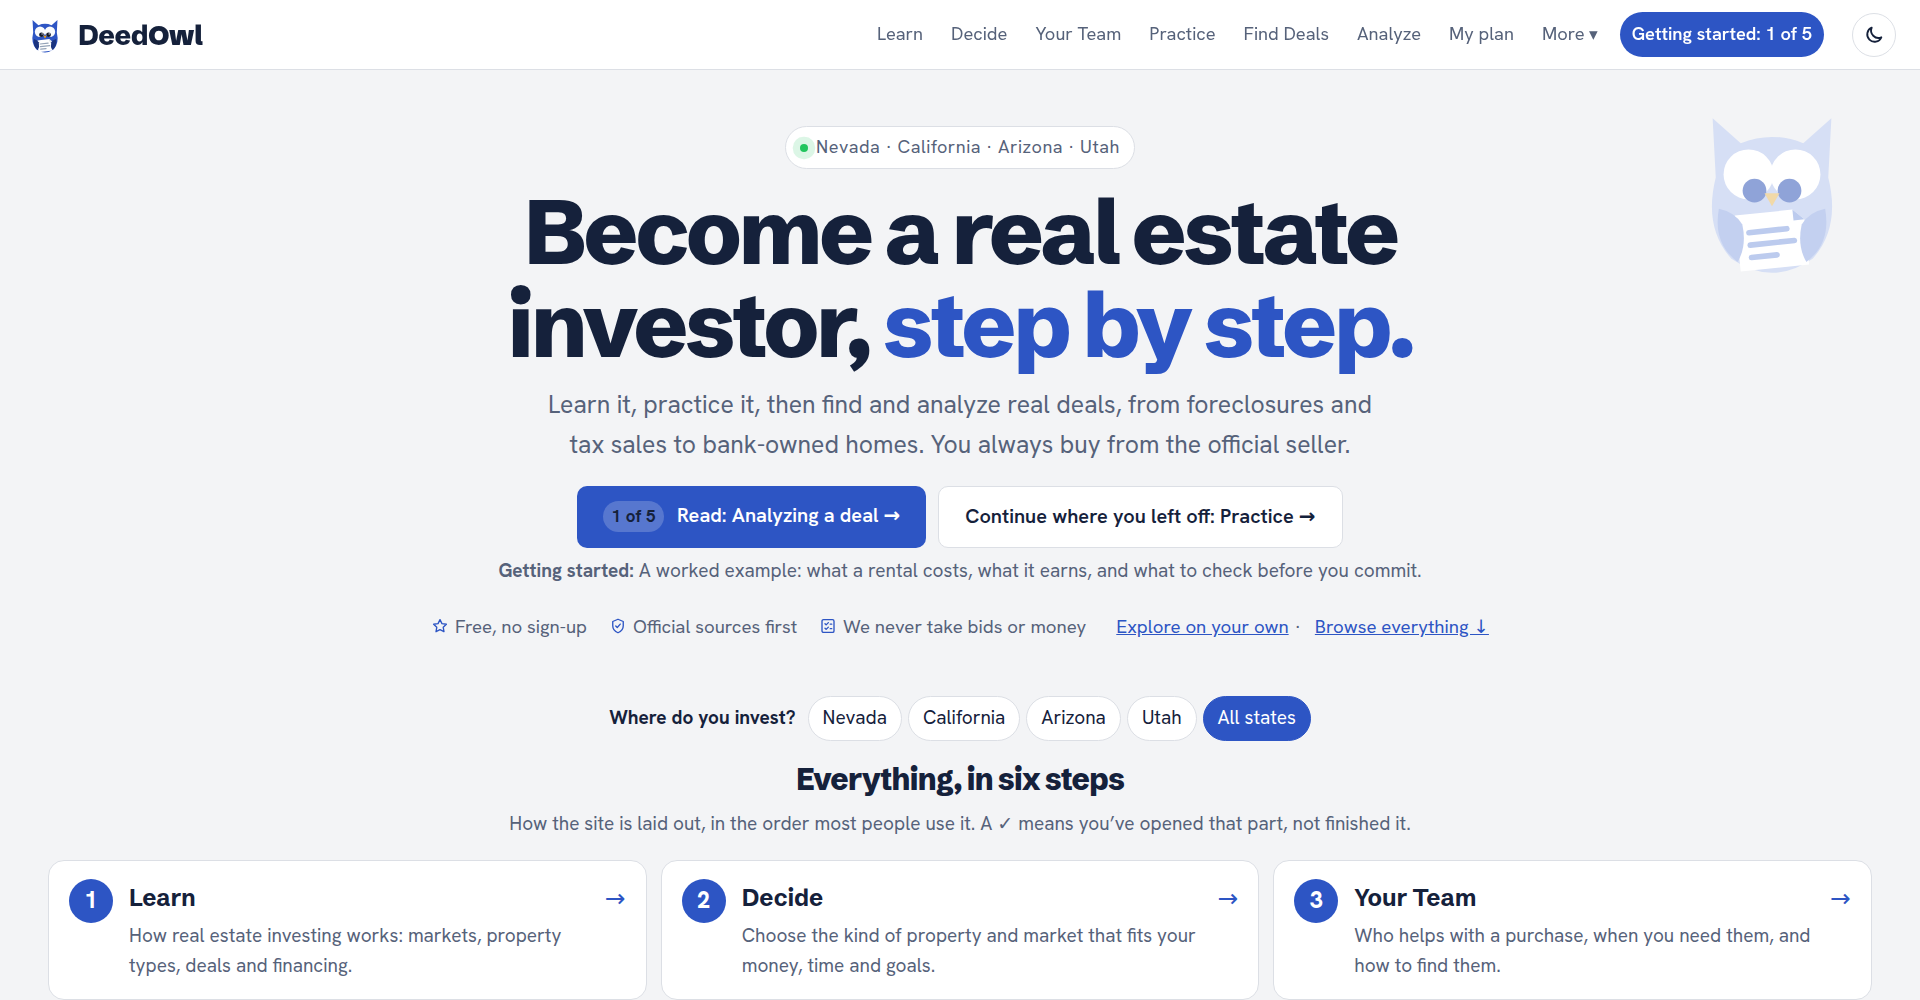
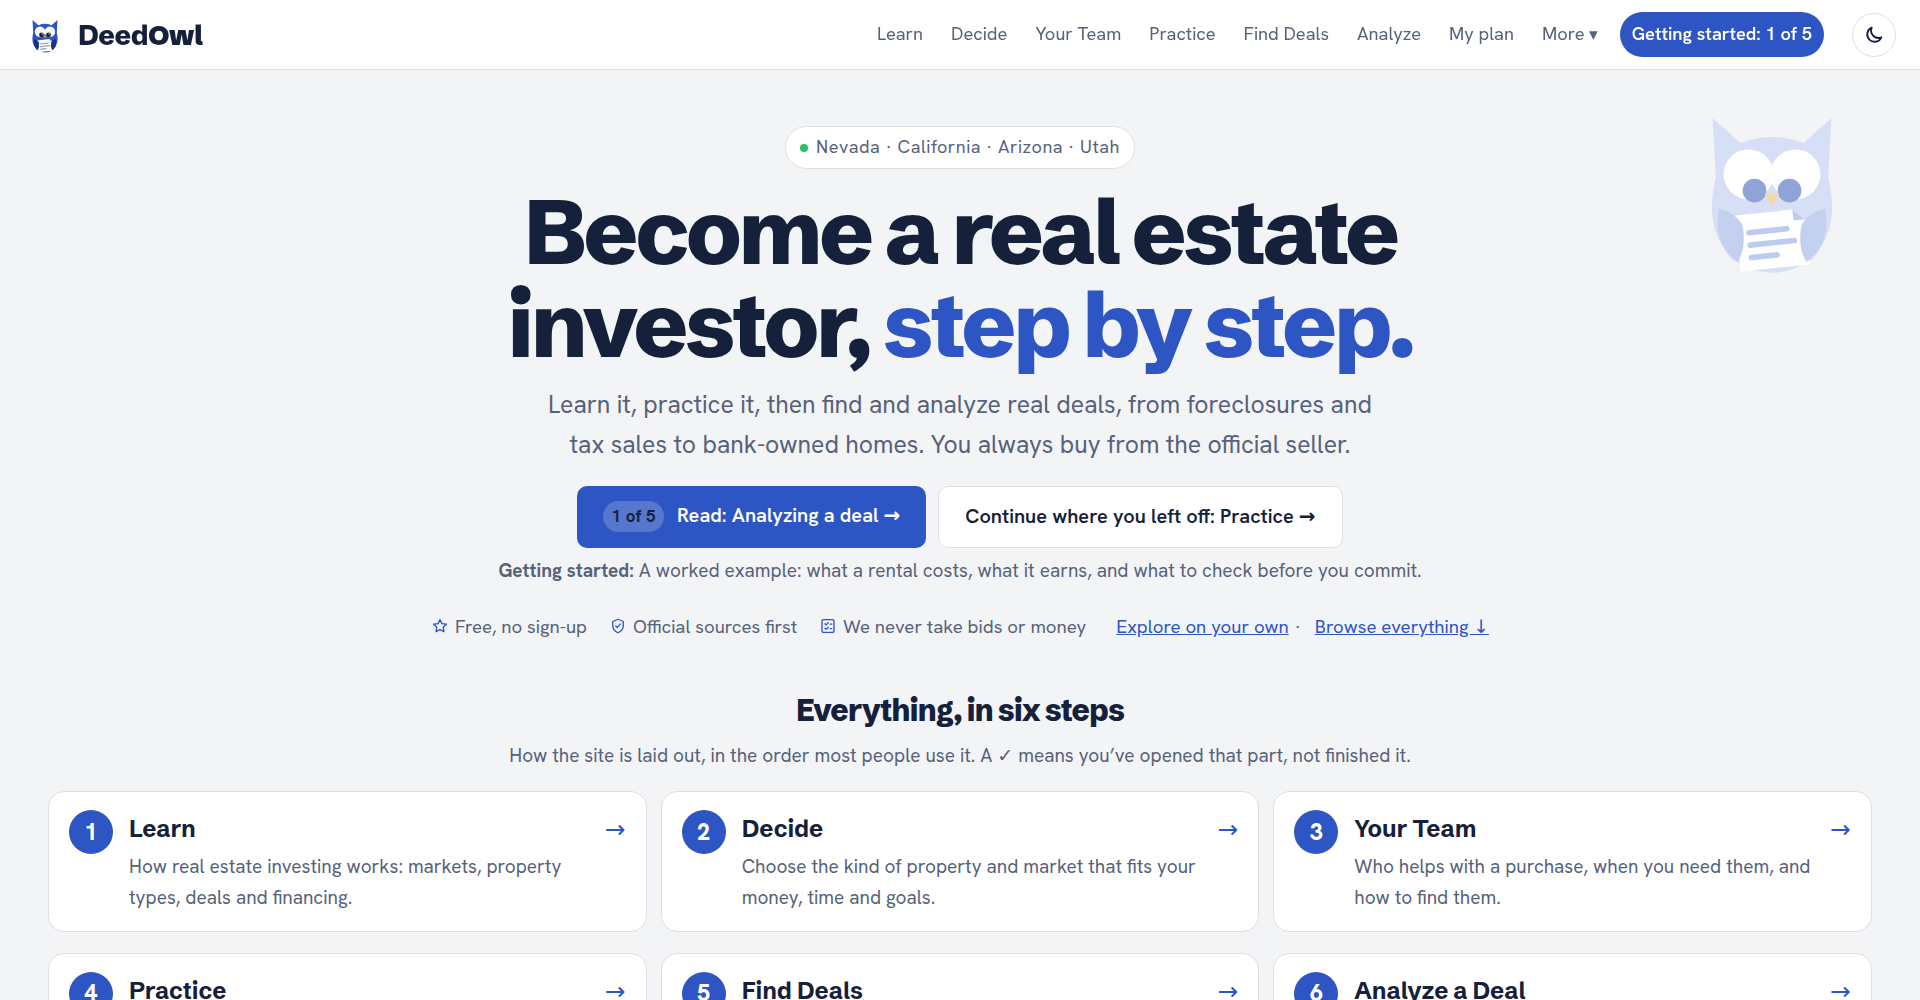
Home: drop the state picker; the hero already names the four states, and later pages ask
Claude-Session: https://claude.ai/code/session_019dGDYcan57bz6rc52xsq5c

Changed region(s): [[0.0312, 0.682, 0.9688, 1.0], [0.4062, 0.124, 0.4375, 0.155]]

diff --git a/src/components/HomePage.tsx b/src/components/HomePage.tsx
@@ -1,4 +1,3 @@
-import StatePicker from './StatePicker';
 import { IconBank, IconBadge, IconCalc, IconCheckList, IconFile, IconLayers, IconShield, IconStar } from './Icons';
 import { PATH, useStepsSeen } from '../lib/path';
 import { currentProgress, GUIDED, guidedNext, setMode, unfinished, useJourney } from '../lib/journey';
@@ -106,7 +105,6 @@ export default function HomePage() {
       </section>
 
       <section className="path" id="everything" aria-labelledby="path-head">
-        <StatePicker label="Where do you invest?" />
         <h2 id="path-head">Everything, in six steps</h2>
         <p className="path-intro">How the site is laid out, in the order most people use it. A ✓ means you’ve opened that part, not finished it.</p>
         <ol className="path-steps">
